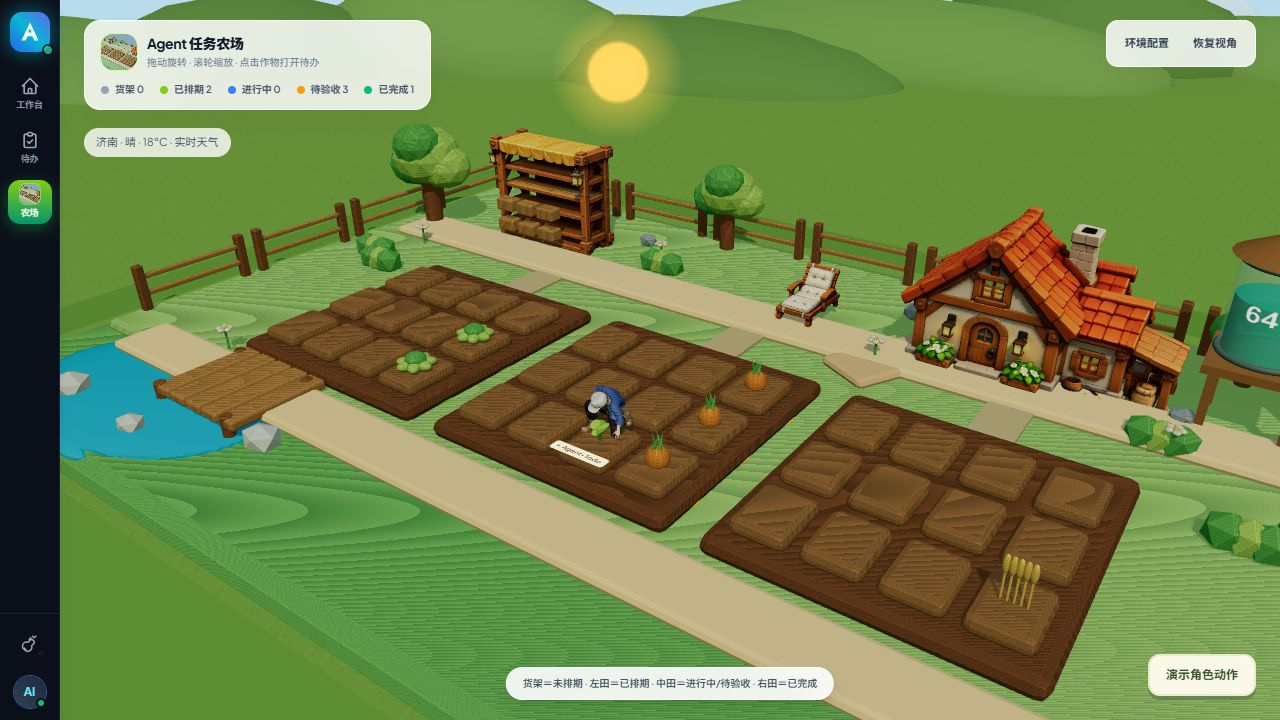
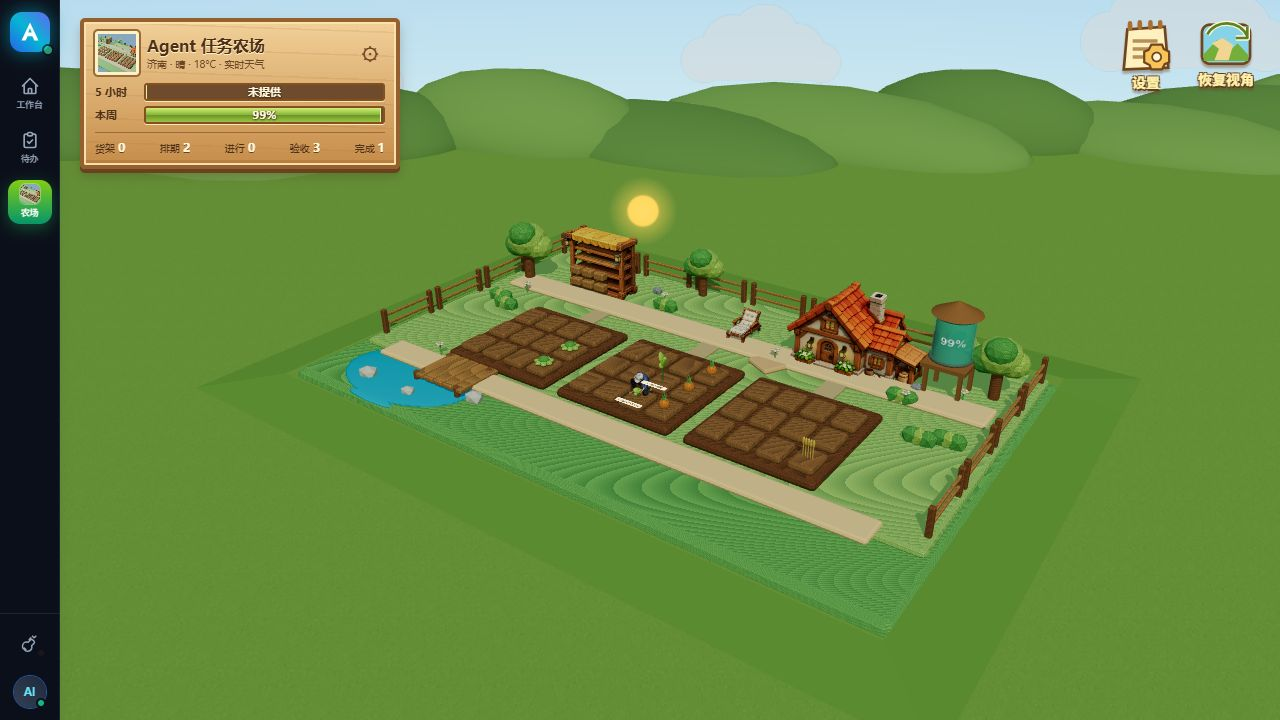
feat: style farm HUD as a wooden game dashboard

diff --git a/assets/web/index.html b/assets/web/index.html
@@ -538,6 +538,15 @@
       height: 100%;
       outline: none;
     }
+
+    .farm-game-header{position:absolute;left:20px;right:20px;top:18px;z-index:10;display:flex;align-items:flex-start;justify-content:space-between;gap:16px;pointer-events:none}
+    .farm-wood-board{width:320px;max-width:calc(100% - 160px);padding:9px 11px 10px;pointer-events:auto;border:4px solid #95602e;border-radius:5px;background:repeating-linear-gradient(2deg,transparent 0 22px,#a96c3326 23px 24px),linear-gradient(#f1d099,#c68c49);box-shadow:inset 0 0 0 2px #f9e0ac,inset 0 -5px #9a602d55,0 4px 0 #69431f,0 7px 12px #35220f40;color:#4d3019;font:12px system-ui}
+    .farm-board-top{display:flex;align-items:center;gap:8px;margin-bottom:8px}.farm-board-top img{width:44px;height:44px;object-fit:cover;border:3px solid #fff1c7;outline:2px solid #9b6b36;border-radius:3px}.farm-board-top h1{font-size:16px;font-weight:900;line-height:1.4;text-shadow:0 1px #fff0c4}.farm-board-top p{font-size:10px;max-width:210px;color:#694727}.farm-board-top button{margin-left:auto;min-width:30px;min-height:36px;font-size:22px;color:#69431f}
+    .farm-quota-row{display:flex;align-items:center;gap:7px;margin:5px 0;font-weight:800}.farm-quota-row>span{width:42px;font-size:11px}.farm-wood-meter{position:relative;flex:1;height:18px;border:2px solid #845021;background:#6d4b2c;border-radius:3px;overflow:hidden;box-shadow:0 1px #ffe7b1}.farm-wood-meter i{display:block;height:100%;background:linear-gradient(#d2ee77,#83b336 50%,#699528 51%,#9bc443);border-right:1px solid #e0f598}.farm-wood-meter i.is-low{background:linear-gradient(#ffd76d,#df8b35)}.farm-wood-meter b{position:absolute;inset:0;text-align:center;color:#fff8df;font-size:11px;line-height:14px;text-shadow:0 1px 2px #36250a,1px 0 #36250a}
+    .farm-board-counts{display:flex;justify-content:space-between;gap:5px;border-top:1px solid #9d6a36;margin-top:8px;padding-top:7px;font-size:10px}.farm-board-counts b{color:#fff8dc;text-shadow:0 1px #69431f;font-size:12px}
+    .farm-game-actions{display:flex;gap:12px;pointer-events:auto}.farm-game-actions button{width:68px;min-height:76px;position:relative;transition:transform .15s;filter:drop-shadow(0 3px 1px #63442366)}.farm-game-actions svg{width:64px;height:58px;margin:auto}.farm-game-actions span{display:block;margin-top:-6px;color:#fff1aa;font-size:14px;font-weight:900;text-shadow:-1px -1px #623c1b,1px -1px #623c1b,-1px 1px #623c1b,1px 2px #623c1b}.farm-game-actions button:hover{transform:translateY(-3px)}.farm-game-actions button:active{transform:translateY(1px)}.farm-game-header button:focus-visible{outline:3px solid #fff6bc;outline-offset:3px;border-radius:5px}
+    @media(max-width:600px){.farm-game-header{left:8px;right:8px;top:10px;gap:8px}.farm-wood-board{max-width:calc(100% - 66px);width:290px}.farm-game-actions{flex-direction:column;gap:4px}.farm-game-actions button{width:58px;min-height:62px}.farm-game-actions svg{width:52px;height:48px}.farm-board-top p{max-width:155px}.farm-board-counts{flex-wrap:wrap}}
+    @media(prefers-reduced-motion:reduce){.farm-game-actions button{transition:none}}
     .farm-hud-panel {
       background: rgba(255, 255, 255, 0.84);
       border: 1px solid rgba(255, 255, 255, 0.76);
@@ -1671,39 +1680,22 @@
     <div v-else-if="activePrimaryModule === 'farm'" class="farm-stage flex-1 h-full overflow-hidden relative select-none">
       <div ref="farmCanvasHost" class="absolute inset-0" aria-live="polite"></div>
 
-      <header class="absolute left-6 right-6 top-5 z-10 flex items-start justify-between gap-4 pointer-events-none">
-        <div class="farm-hud-panel rounded-2xl px-4 py-3 pointer-events-auto">
-          <div class="flex items-center gap-2.5">
-            <span class="inline-flex h-9 w-9 items-center justify-center overflow-hidden rounded-xl ring-1 ring-lime-200">
-              <img src="/models/farm-preview.png" alt="" class="h-full w-full object-cover" />
-            </span>
-            <div>
-              <h1 class="text-sm font-black tracking-tight text-slate-900">Agent 任务农场</h1>
-              <p class="mt-0.5 text-[10px] text-slate-500">拖动旋转 · 滚轮缩放 · 点击作物打开待办</p>
-            </div>
-          </div>
-          <div class="mt-3 flex flex-wrap items-center gap-x-4 gap-y-1.5 text-[10px] font-semibold text-slate-600">
-            <span class="flex items-center gap-1.5"><i class="h-2 w-2 rounded-full bg-slate-400"></i>货架 {{ farmSummary.inbox }}</span>
-            <span class="flex items-center gap-1.5"><i class="h-2 w-2 rounded-full bg-lime-500"></i>已排期 {{ farmSummary.scheduled }}</span>
-            <span class="flex items-center gap-1.5"><i class="h-2 w-2 rounded-full bg-blue-500"></i>进行中 {{ farmSummary.active }}</span>
-            <span class="flex items-center gap-1.5"><i class="h-2 w-2 rounded-full bg-amber-500"></i>待验收 {{ farmSummary.review }}</span>
-            <span class="flex items-center gap-1.5"><i class="h-2 w-2 rounded-full bg-emerald-500"></i>已完成 {{ farmSummary.done }}</span>
-          </div>
-        </div>
-
-        <div class="farm-hud-panel rounded-xl p-1.5 pointer-events-auto">
-          <button type="button" @click="openFarmConfig" class="rounded-lg px-3 py-2 text-[11px] font-bold text-slate-700 hover:bg-white focus-visible:ring-2 focus-visible:ring-lime-500">环境配置</button>
-          <button
-            type="button"
-            @click="resetFarmCamera"
-            class="rounded-lg px-3 py-2 text-[11px] font-bold text-slate-700 transition-colors hover:bg-white focus-visible:outline-none focus-visible:ring-2 focus-visible:ring-lime-500"
-            title="恢复默认视角">
-            恢复视角
+      <header class="farm-game-header">
+        <section class="farm-wood-board" aria-label="农场状态与额度">
+          <div class="farm-board-top"><img src="/models/farm-preview.png" alt=""/><div><h1>Agent 任务农场</h1><p>{{ farmWeatherText }}</p></div><button type="button" @click="openFarmConfig" aria-label="配置农场" title="配置农场">⚙</button></div>
+          <div v-for="bar in farmQuotaBars" :key="bar.name" class="farm-quota-row"><span>{{bar.name}}</span><div class="farm-wood-meter" role="progressbar" :aria-label="bar.name+'剩余额度'" :aria-valuenow="bar.remaining" aria-valuemin="0" aria-valuemax="100" :aria-valuetext="bar.text"><i :style="{width:(bar.remaining||0)+'%'}" :class="{'is-low':bar.remaining!==null&&bar.remaining<30}"></i><b>{{bar.text}}</b></div></div>
+          <div class="farm-board-counts"><span>货架 <b>{{farmSummary.inbox}}</b></span><span>排期 <b>{{farmSummary.scheduled}}</b></span><span>进行 <b>{{farmSummary.active}}</b></span><span>验收 <b>{{farmSummary.review}}</b></span><span>完成 <b>{{farmSummary.done}}</b></span></div>
+        </section>
+        <nav class="farm-game-actions" aria-label="农场操作">
+          <button type="button" @click="openFarmConfig" aria-label="设置" title="设置">
+            <svg viewBox="0 0 72 64" aria-hidden="true"><path d="M15 10L57 7 61 53 11 55Z" fill="#fff0c0" stroke="#70451d" stroke-width="3"/><path d="M18 9V3M29 8V2M41 8V2M52 7V2" stroke="#a96f32" stroke-width="5" stroke-linecap="round"/><path d="M21 23H49M21 32H48M21 41H47" stroke="#b69056" stroke-width="4"/><g transform="translate(48 41)"><path d="M-6-14H6L8-9 14-6V6L9 8 6 14H-6L-8 9-14 6V-6L-9-8Z" fill="#f7c45a" stroke="#70451d" stroke-width="2.5"/><circle r="5" fill="#fff6da" stroke="#70451d" stroke-width="2"/></g></svg><span>设置</span>
           </button>
-        </div>
+          <button type="button" @click="resetFarmCamera" aria-label="恢复视角" title="恢复视角">
+            <svg viewBox="0 0 72 64" aria-hidden="true"><rect x="9" y="8" width="54" height="44" rx="9" fill="#86d3e8" stroke="#70451d" stroke-width="3"/><path d="M11 41L26 25 39 39 49 29 61 42V49H11Z" fill="#75af39"/><path d="M32 23L44 31 39 48 23 48 28 35 20 29Z" fill="#f1d693"/><path d="M15 19C24 2 51 2 60 21M60 10V23H47" fill="none" stroke="#fff9d1" stroke-width="6" stroke-linejoin="round"/><path d="M15 19C24 2 51 2 60 21M60 10V23H47" fill="none" stroke="#5c8128" stroke-width="3" stroke-linejoin="round"/></svg><span>恢复视角</span>
+          </button>
+        </nav>
       </header>
 
-      <div class="absolute top-32 left-6 z-10 rounded-full bg-white/80 px-3 py-1.5 text-[11px] text-slate-600 backdrop-blur" :title="farmWeather?.fetchedAt ? '天气更新：' + new Date(farmWeather.fetchedAt).toLocaleString('zh-CN') : '正在获取实时天气'">{{ farmWeatherText }}</div>
       <div v-if="showFarmConfig" class="absolute inset-0 z-40 grid place-items-center bg-slate-900/30 p-5 backdrop-blur-sm" @click.self="showFarmConfig=false" @keydown.esc="showFarmConfig=false">
         <form @submit.prevent="saveFarmConfig" @keydown.tab="trapFarmConfigFocus" role="dialog" aria-modal="true" aria-labelledby="farm-config-title" class="w-full max-w-sm rounded-2xl border border-white bg-[#fffdf4] p-6 shadow-2xl space-y-5">
           <div class="flex justify-between items-center"><h2 id="farm-config-title" class="font-bold text-slate-800">农场环境</h2><button type="button" @click="showFarmConfig=false" aria-label="关闭环境配置" class="px-2 py-1">×</button></div>
@@ -1716,11 +1708,7 @@
         </form>
       </div>
 
-      <div class="absolute bottom-5 left-1/2 z-10 -translate-x-1/2 rounded-full border border-white/70 bg-white/90 px-4 py-2 text-[10px] font-medium text-slate-700 shadow-lg backdrop-blur-md pointer-events-none">
-        货架＝未排期 · 左田＝已排期 · 中田＝进行中/待验收 · 右田＝已完成
-      </div>
-
-      <div v-if="farmLoading" class="absolute inset-0 z-20 grid place-items-center bg-[#d8eef5]/90 backdrop-blur-sm">
+<div v-if="farmLoading" class="absolute inset-0 z-20 grid place-items-center bg-[#d8eef5]/90 backdrop-blur-sm">
         <div class="text-center">
           <div class="mx-auto h-10 w-10 animate-spin rounded-full border-4 border-white/70 border-t-lime-600"></div>
           <p class="mt-3 text-xs font-bold text-slate-700">正在载入 3D 任务农场…</p>
@@ -2895,6 +2883,7 @@
       });
       let farmController = null;
       let farmQuota = {};
+      const farmQuotaBars=ref([]);
       let farmModulePromise = null;
       const currentViewMode = ref('kanban'); // kanban / list / calendar
       const clockNow = ref(new Date());
@@ -4011,6 +4000,11 @@ Please navigate to the Project Path specified above, analyze the current workspa
 
       function applyCodexSnapshot(snapshot) {
         farmQuota = snapshot.quota || {};
+        farmQuotaBars.value=[300,10080].map(minutes=>{
+          const window=[farmQuota.primary,farmQuota.secondary].find(item=>Number(item?.windowDurationMins)===minutes);
+          const remaining=window?.usedPercent!=null?Math.max(0,Math.min(100,100-Number(window.usedPercent))):null;
+          return {name:minutes===300?'5 小时':'本周',remaining,text:remaining===null?'未提供':`${Math.round(remaining)}%`};
+        });
         const quota = snapshot.quota || {};
         const live = Array.isArray(snapshot.agents) ? snapshot.agents : [];
         const agent = live[0] || emptyCodexAgent(0, quota);
@@ -4059,7 +4053,7 @@ Please navigate to the Project Path specified above, analyze the current workspa
         farmLoading.value = true;
         farmError.value = '';
         try {
-          farmModulePromise ||= import('/farm3d.js?v=0.4.4');
+          farmModulePromise ||= import('/farm3d.js?v=0.4.5');
           const { createAgentFarm3D } = await farmModulePromise;
           if (!farmCanvasHost.value || activePrimaryModule.value !== 'farm') return;
           farmController = createAgentFarm3D({
@@ -4383,7 +4377,7 @@ Please navigate to the Project Path specified above, analyze the current workspa
         farmTooltip,
         farmLoading,
         farmError,
-        showFarmConfig,farmConfig,farmConfigError,farmConfigSaving,farmWeather,farmWeatherText,openFarmConfig,saveFarmConfig,trapFarmConfigFocus,
+        farmQuotaBars,showFarmConfig,farmConfig,farmConfigError,farmConfigSaving,farmWeather,farmWeatherText,openFarmConfig,saveFarmConfig,trapFarmConfigFocus,
         farmSummary,
         resetFarmCamera,
         retryFarm3D,

diff --git a/assets/web/farm3d.js b/assets/web/farm3d.js
@@ -148,7 +148,6 @@ export function createAgentFarm3D({ container, tooltip, onTaskOpen, onSessionOpe
   const previewButton = document.createElement('button');
   previewButton.className = 'farm-preview-control';
   previewButton.textContent = '演示角色动作';
-  labels.appendChild(previewButton);
   previewButton.addEventListener('click', () => {
     previewTime = previewTime < 0 ? 0 : -1;
     previewButton.textContent = previewTime < 0 ? '演示角色动作' : '结束演示';

diff --git a/design-qa.md b/design-qa.md
@@ -42,3 +42,4 @@ final result: passed
 - Anchored the sun above the actual cottage roof bounds and reduced its size. Verified the live sunny view and an empty browser error log; weather and daylight visibility remain unchanged.
 - Added a Blender-built quota water tower beside the cottage. Verified readable default-view labels, live weekly-only fallback (65%), duration-based window selection, zero/missing data handling, and an empty browser error log.
 - Replaced the quota plaque with transparent curved percentage lettering on the tank. Moved the weather anchor above the stall/field gap. Visually verified rain clouds, partial cloudy sun, white snow clouds and snow-coated cottage surfaces; restored automatic Jinan weather after previews.
+- Replaced the farm HUD with a wooden game board, live quota meters and illustrated settings/reset controls. Removed the footer explanation and visible animation demo control. Verified live quota, settings dialog and reset action with no browser errors.
